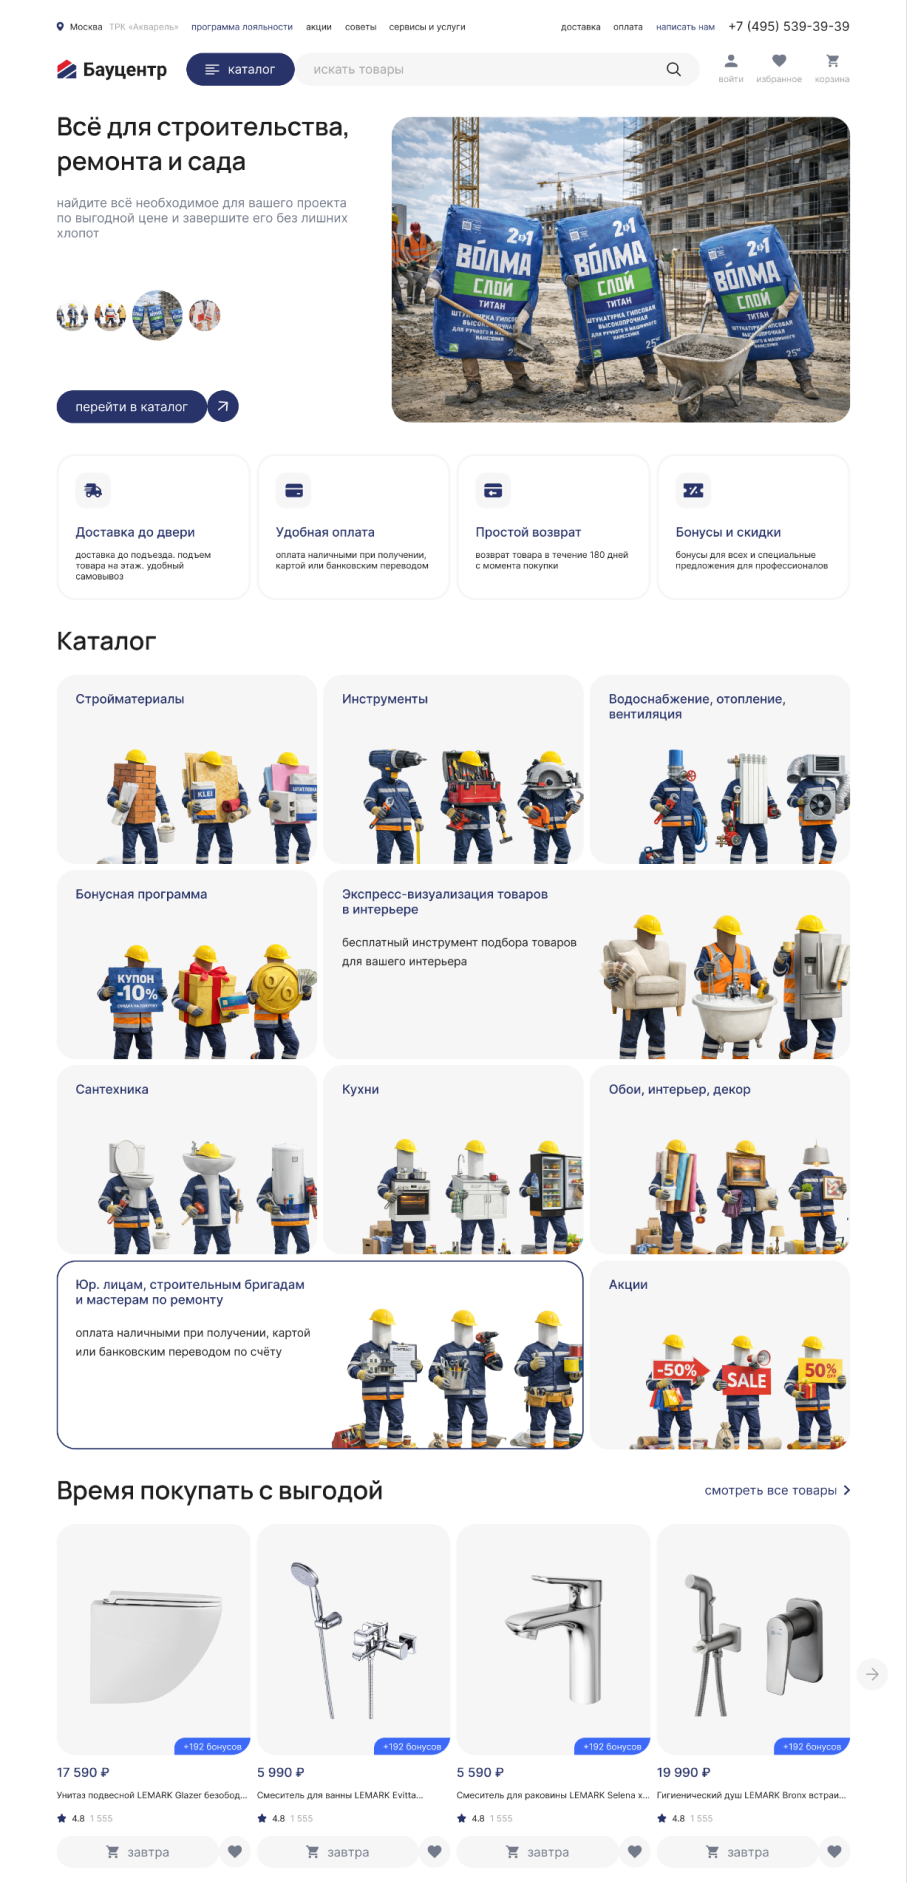
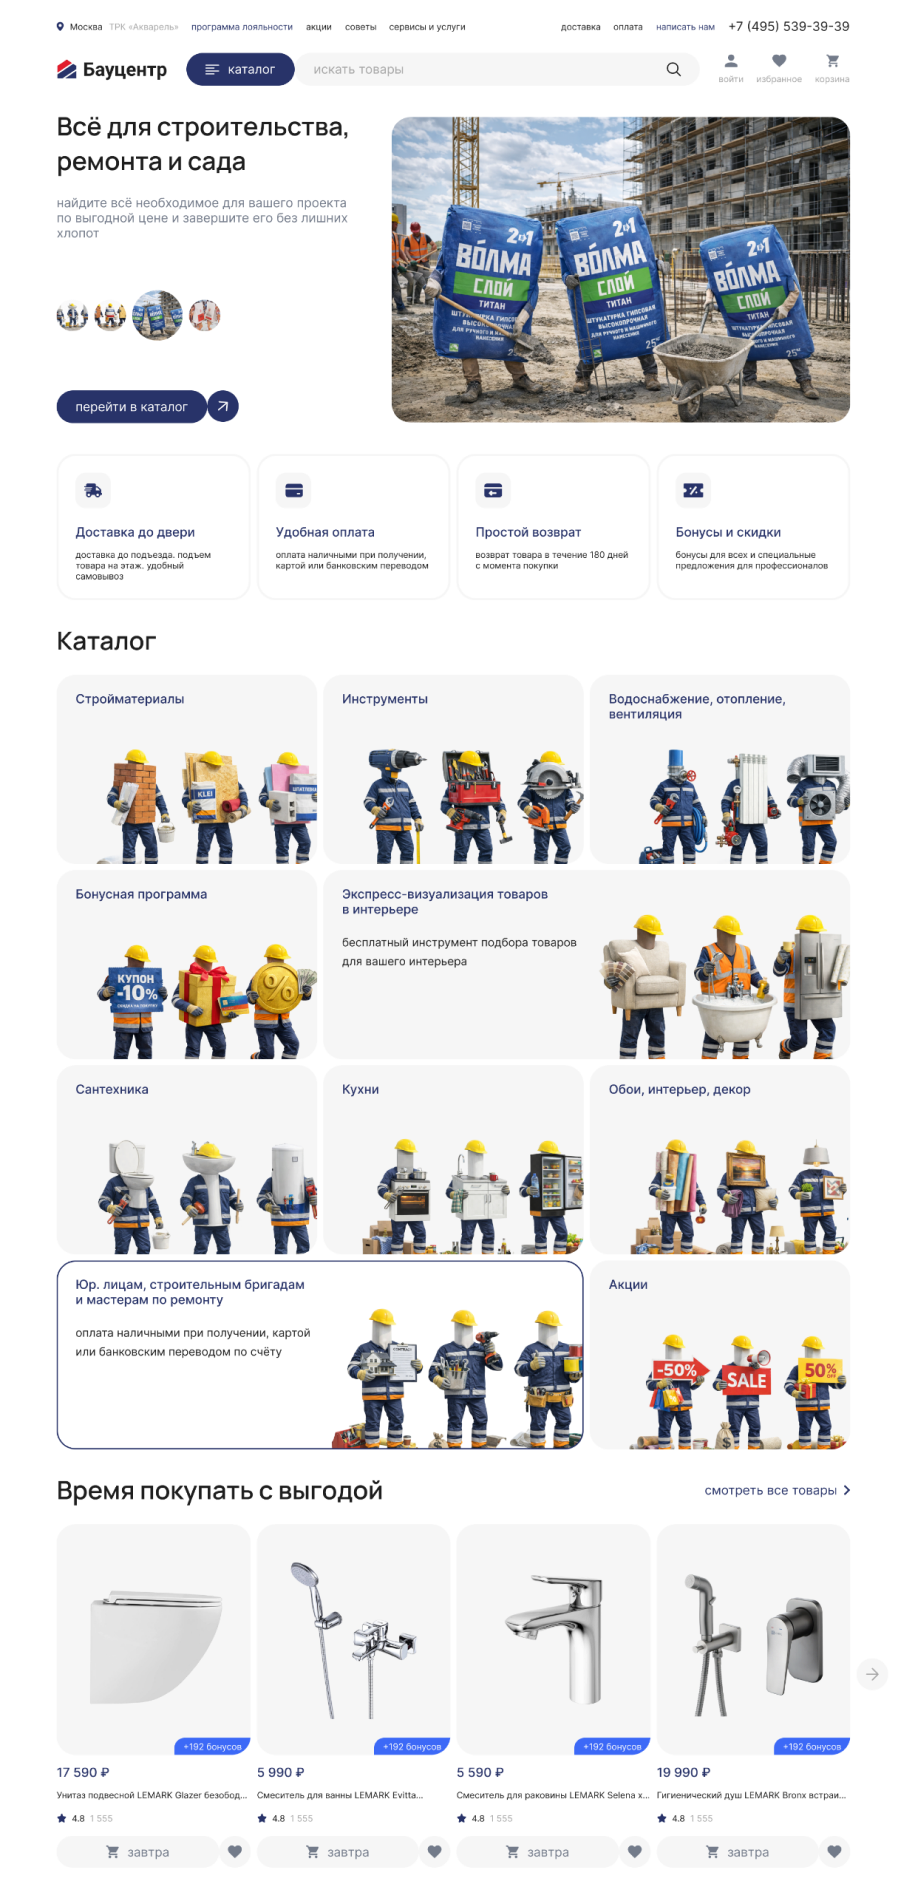
Fix stray line at the edge of the mobile before/after slider
With the Figma crop the "after" screenshot ends ~6% short of the slider's
right edge, so dragging the handle right let the old site show through as
a dark strip. Back that layer with white, matching the new site's margin.
The PNG also had a baked-in 1px grey border on its right edge; cropped.

diff --git a/css/case.css b/css/case.css
@@ -467,8 +467,15 @@ body {
   .case--mobile .case-compare__after .case-shot__img {
     left: -6.18%;
     top: -0.698%;
-    width: 100.013%;
+    width: 99.903%;
     height: 100.837%;
+  }
+  /* При этой подгонке картинка "после" кончается на ~6% раньше правого
+     края блока — если увести ручку вправо, в щель проглядывал старый сайт
+     тёмной полосой. У нового сайта справа чисто белое поле, так что белая
+     подложка просто продолжает его. */
+  .case--mobile .case-compare__after {
+    background: #fff;
   }
   .case--mobile .case-compare__handle {
     width: 36px;
